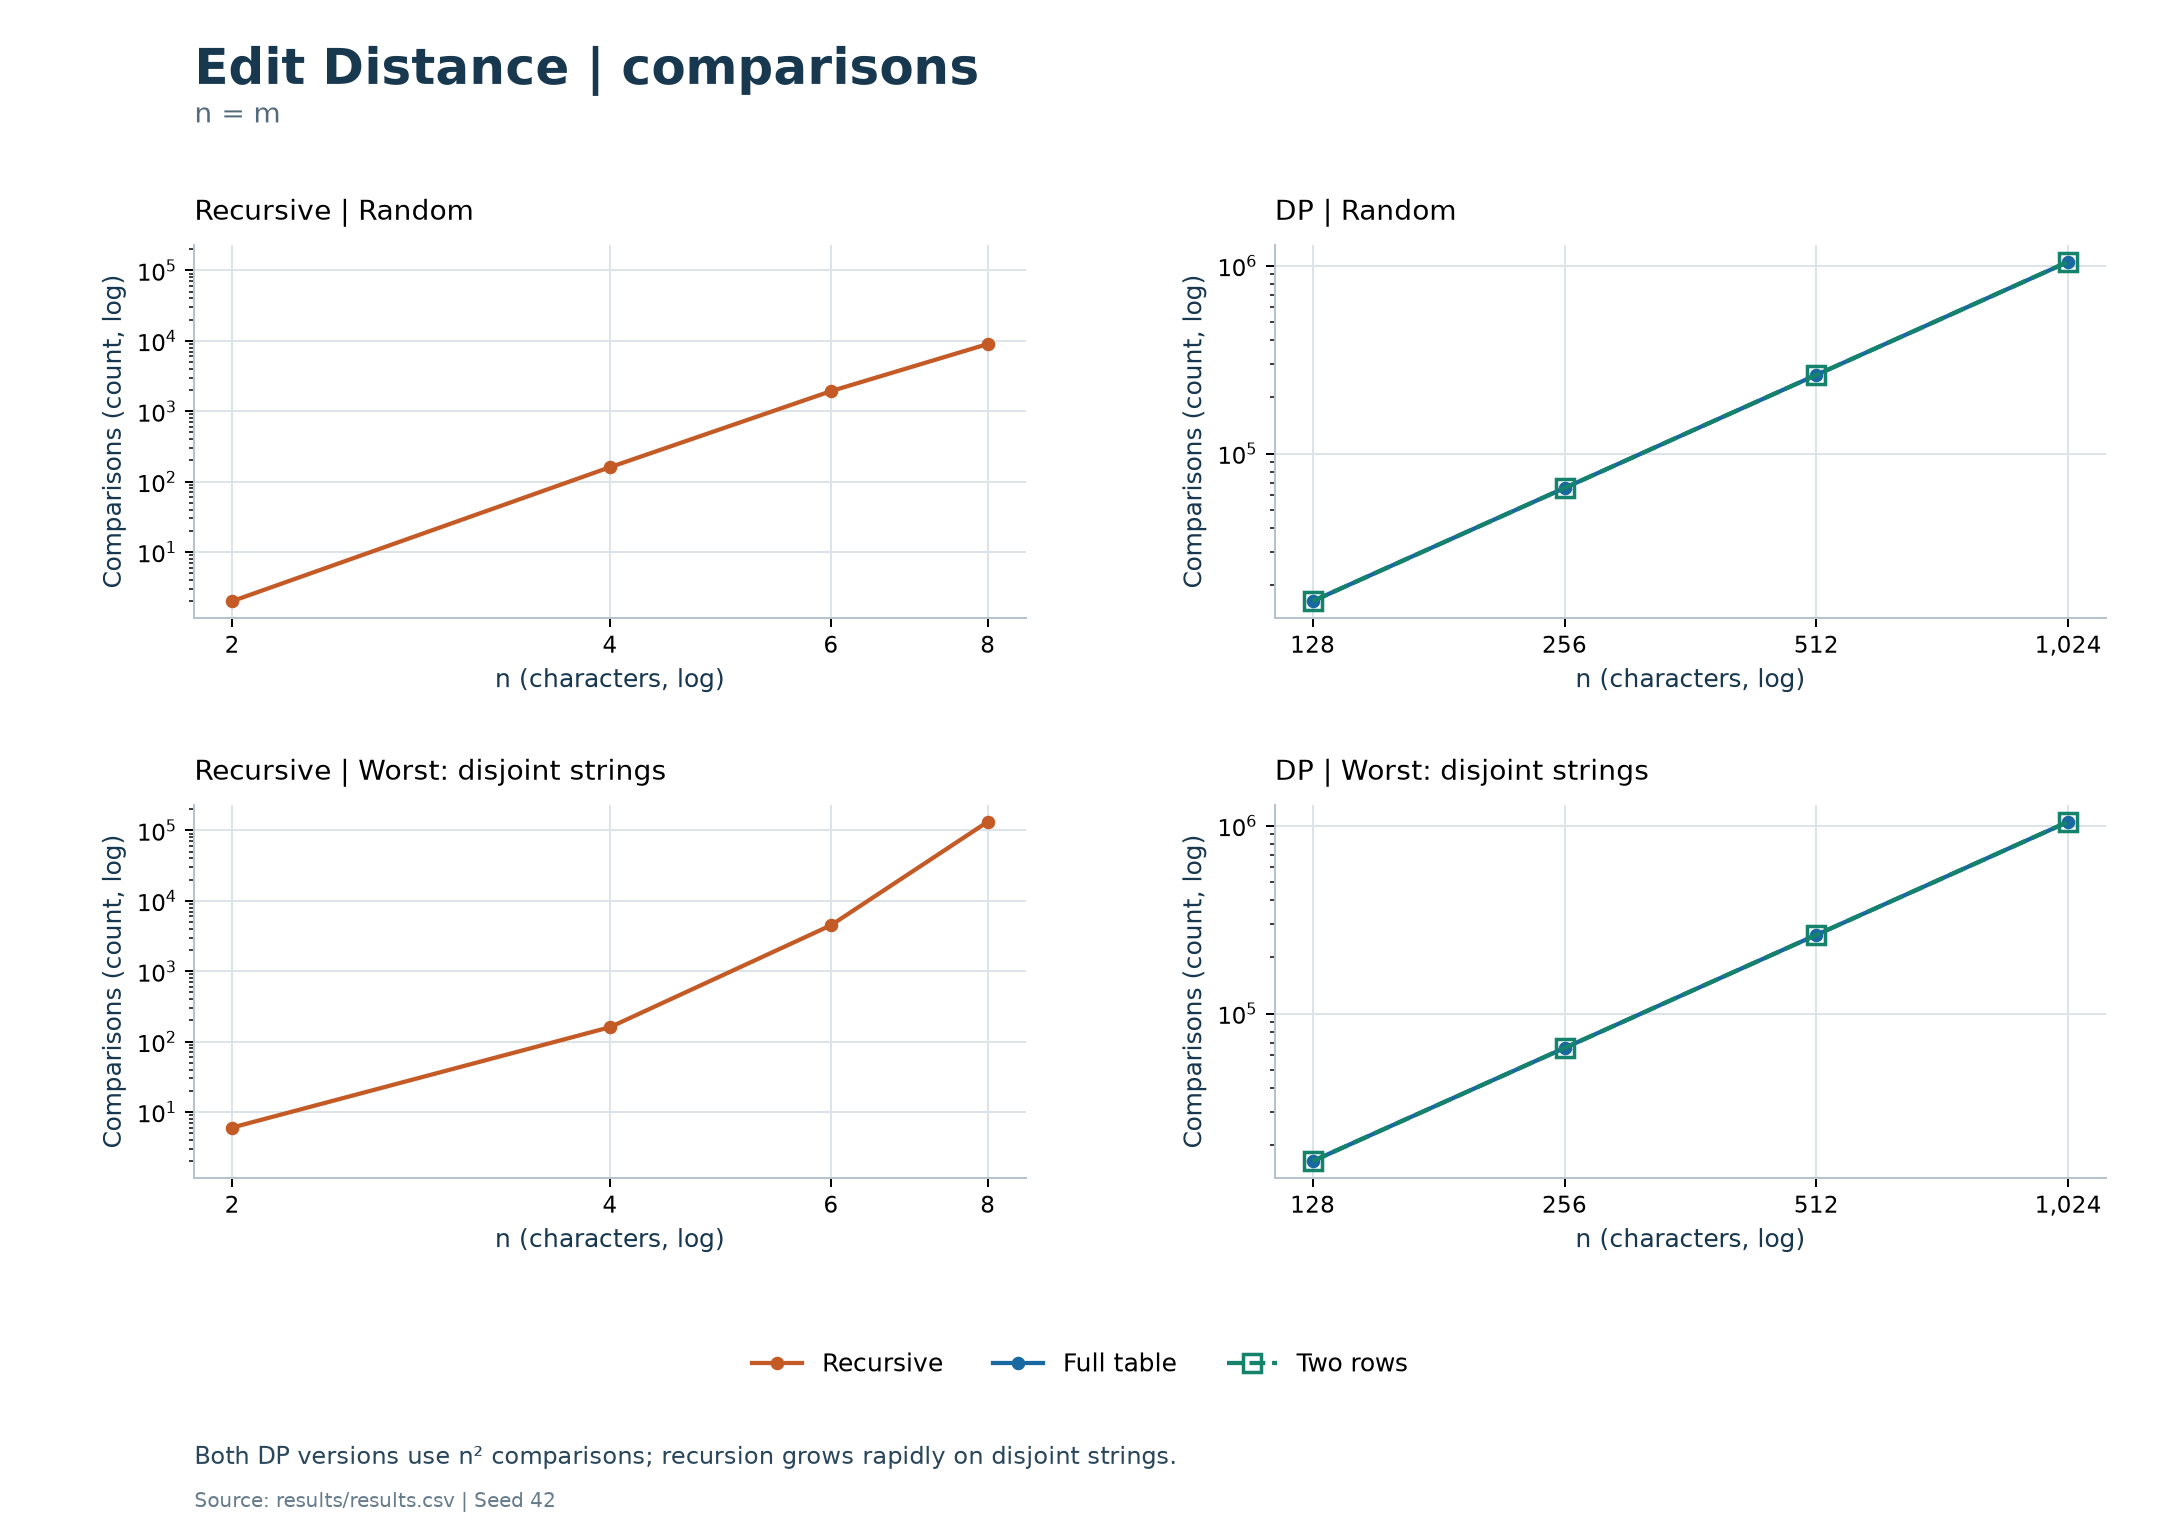
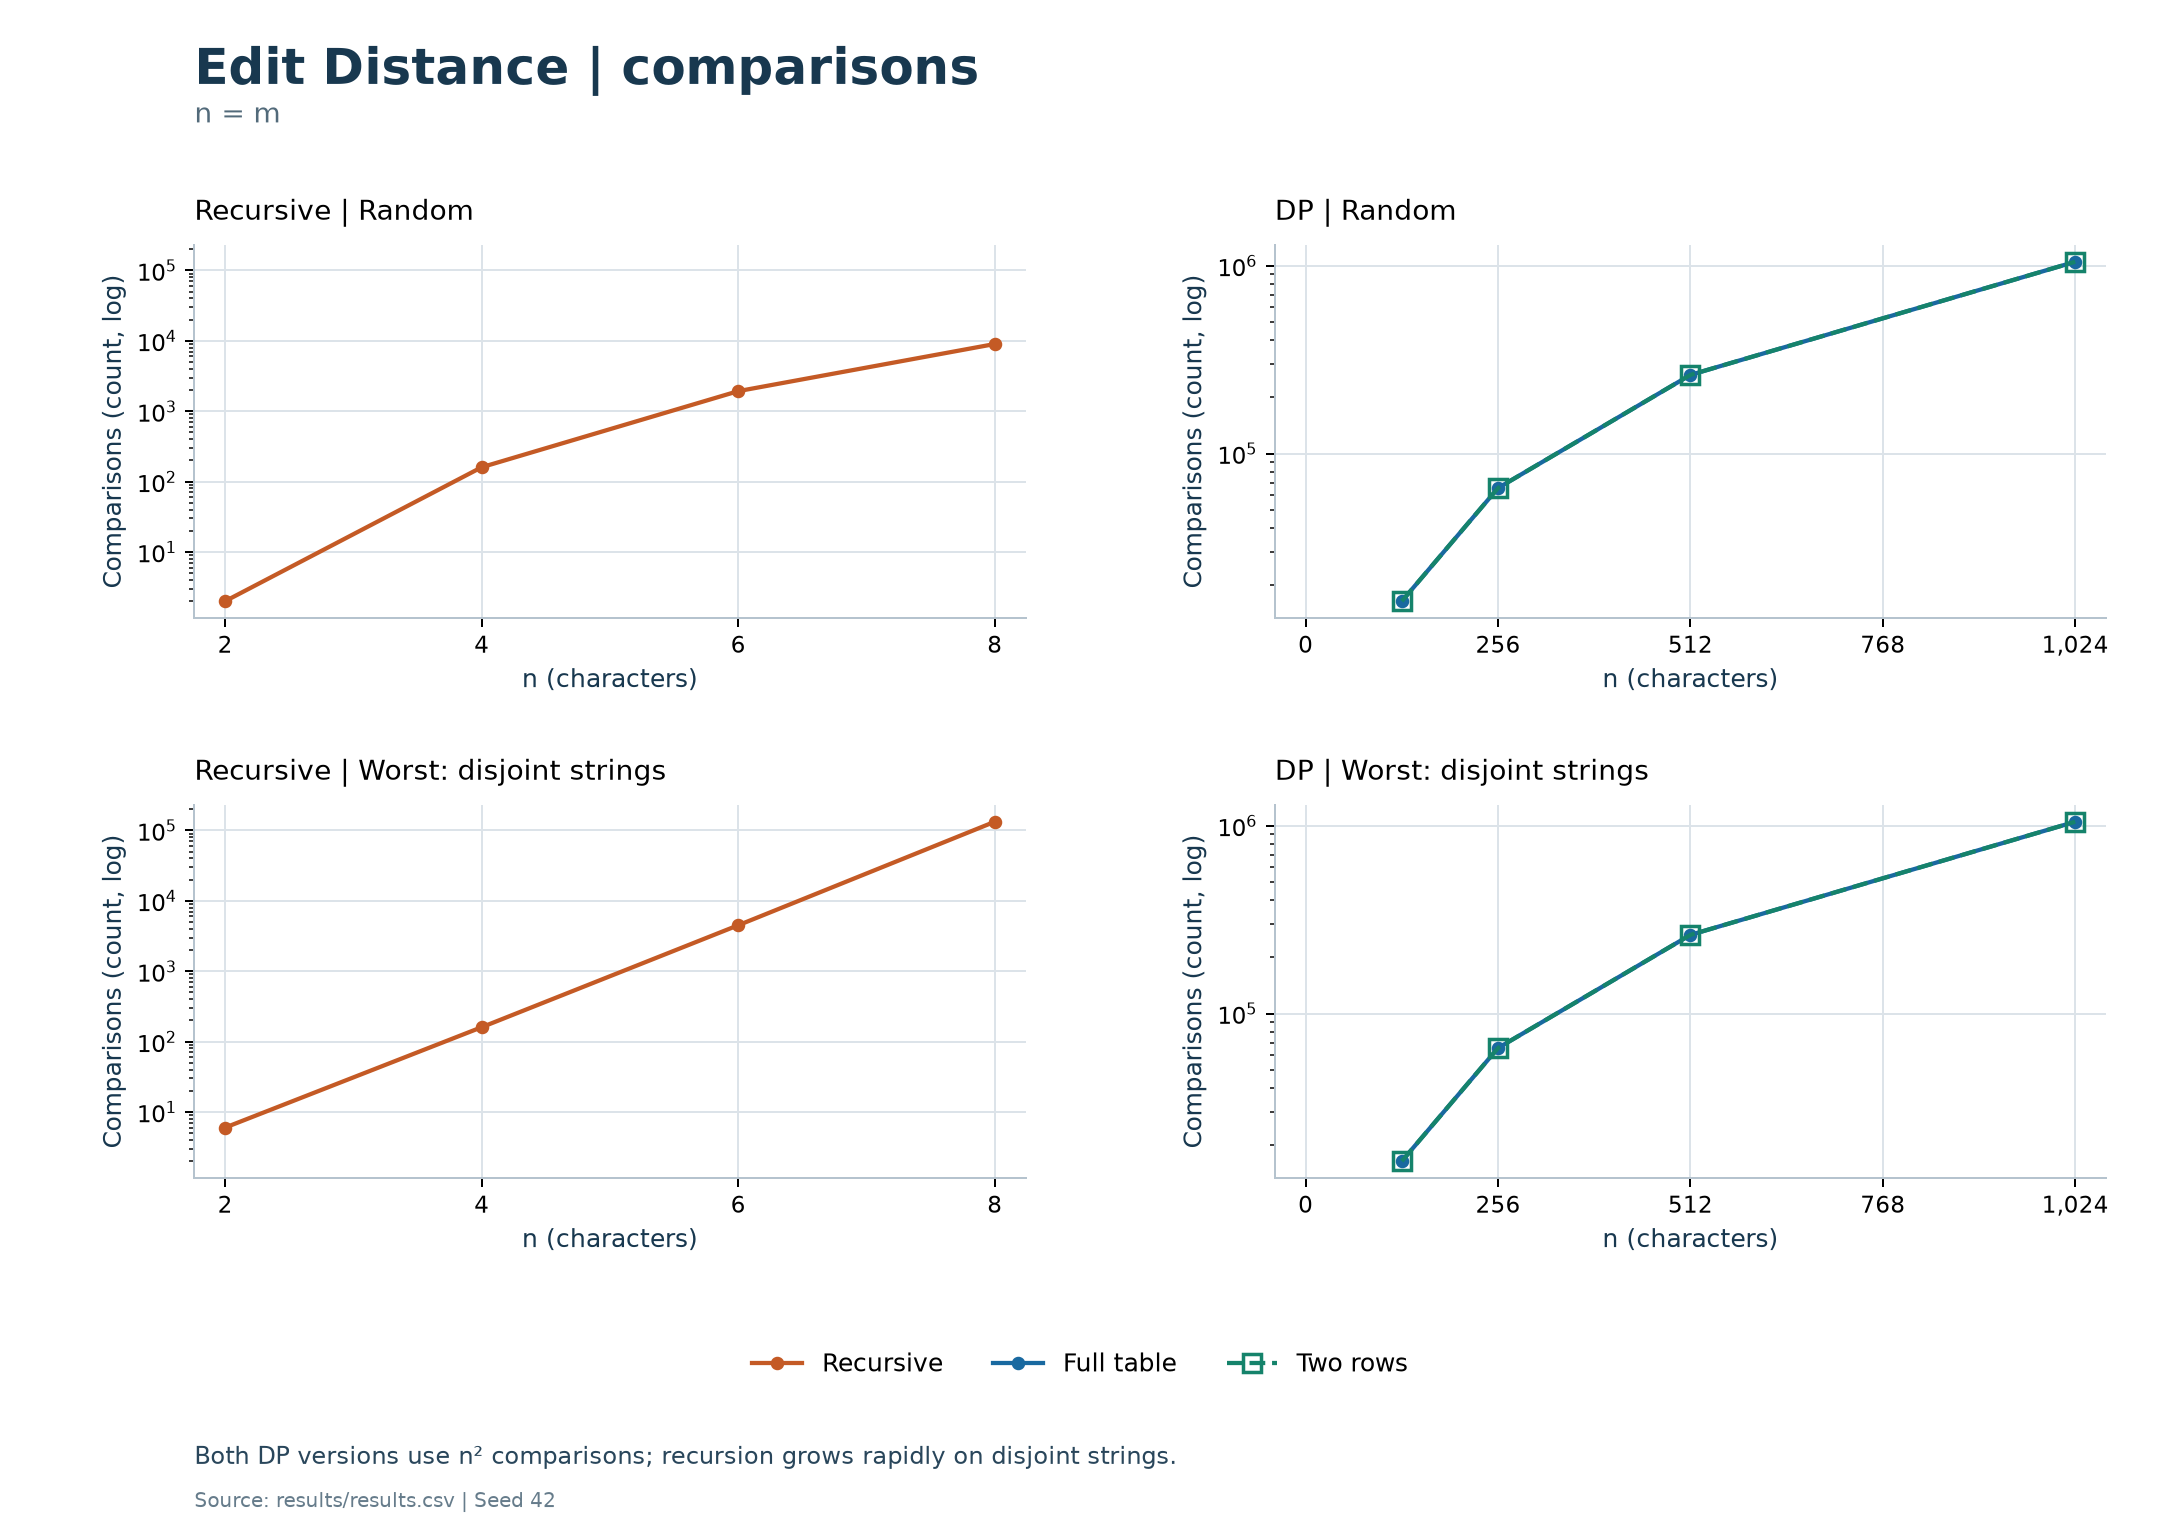
fix: use linear x axes

diff --git a/assignment4/REPORT.md b/assignment4/REPORT.md
@@ -11,7 +11,7 @@
 | Metrics | Character comparisons counted inside algorithms, including KMP preprocessing, measure work. Median time in milliseconds measures practical cost. |
 | Runs | Seed `42`; JVM warm-up, then three warm-up calls and three measured calls per case. Input generation and CSV writing are outside timing. Inputs and counts are reproducible; times vary. |
 | Predictions | Recursive edit grows exponentially; DP comparisons grow as `n²`. Random search is approximately linear; the chosen worst case is quadratic for Naive and linear for KMP because `m` grows with `n`. |
-| Plots | Comparison counts and median times versus `n` for each family, split by input type, using logarithmic axes. |
+| Plots | Comparison counts and median times versus `n` for each family, split by input type, using a linear X axis with evenly spaced ticks and a logarithmic Y axis. |
 | Revision | The initial plan preceded measurement. To reduce scope, five measured runs became three and each algorithm retained four sizes; measurements were rerun. |
 
 Data: [results/results.csv](results/results.csv), **120 rows = 5 algorithms × 2 input types × 4 sizes × 3 runs**. Recursive and DP sizes differ, so their times are not directly comparable.
